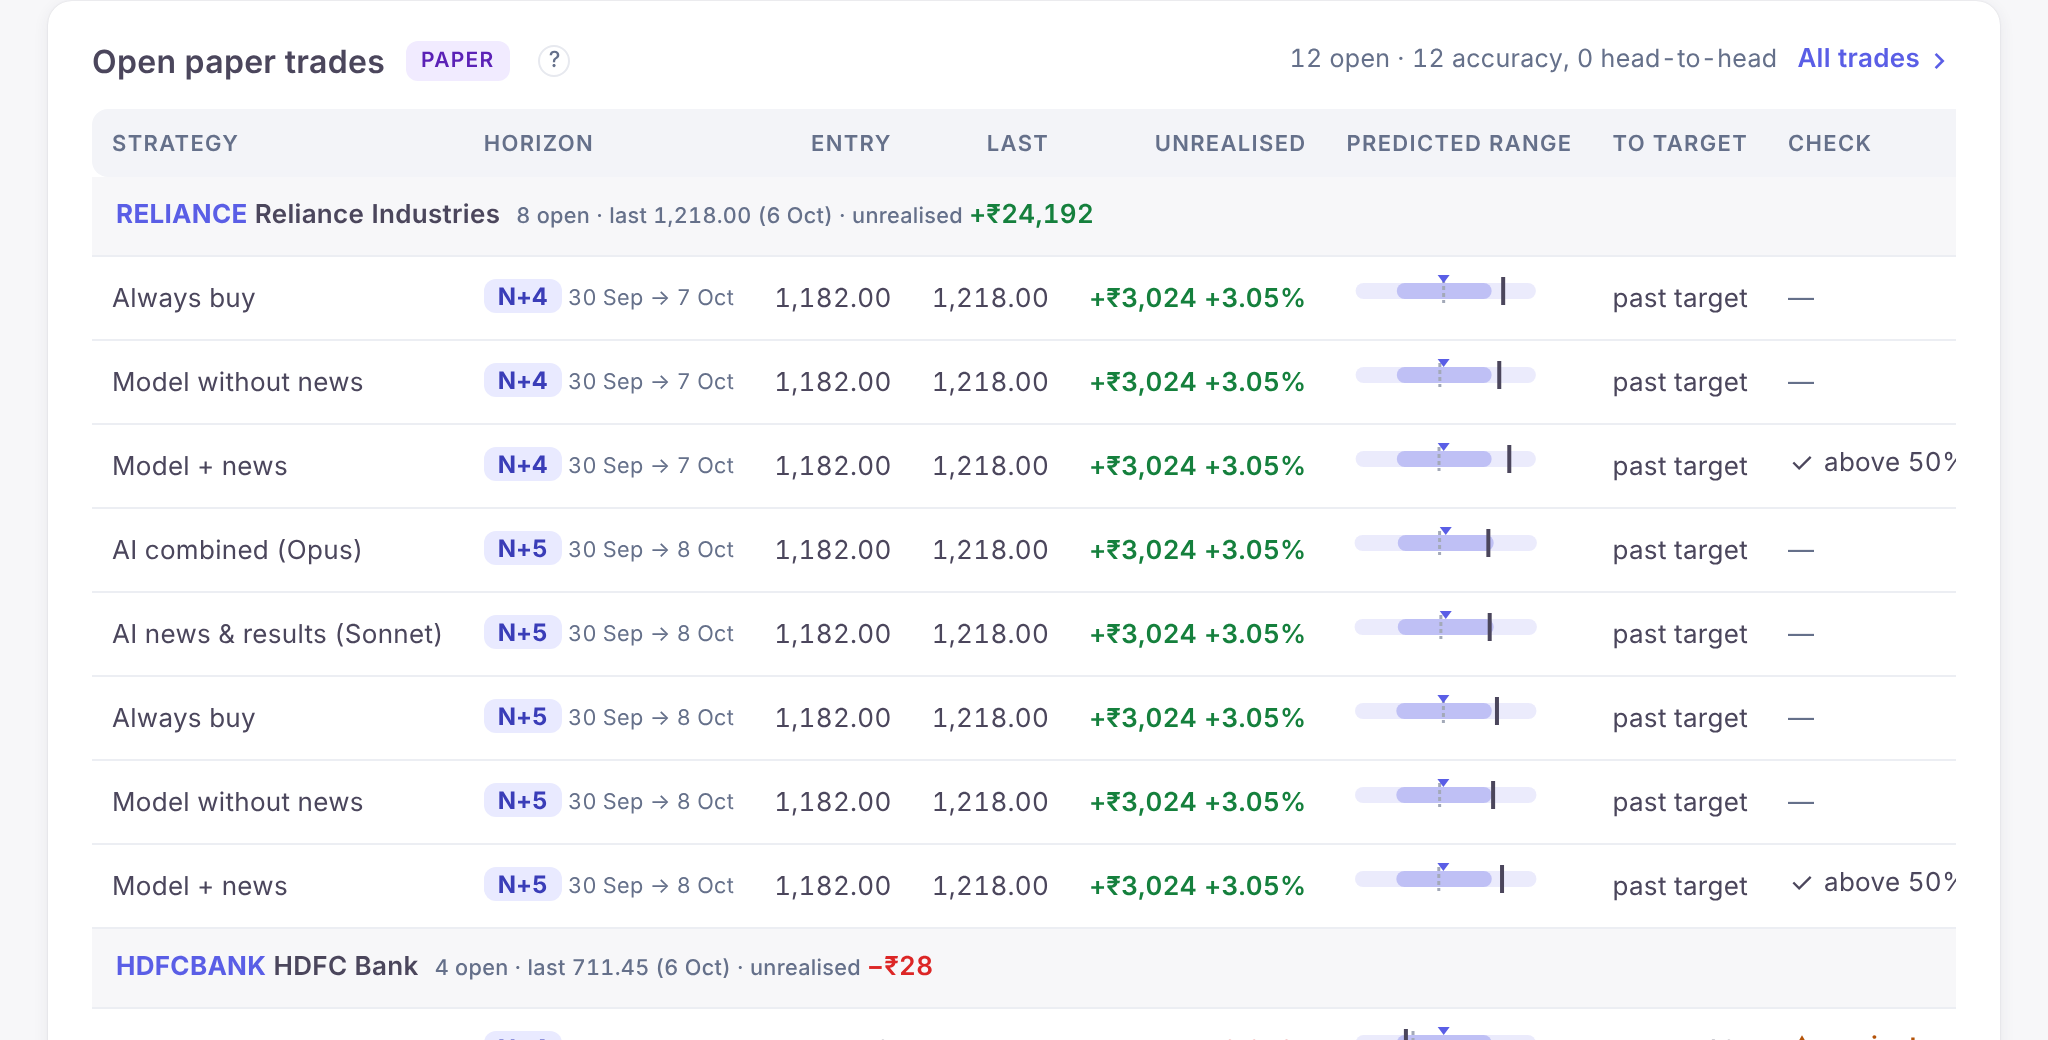
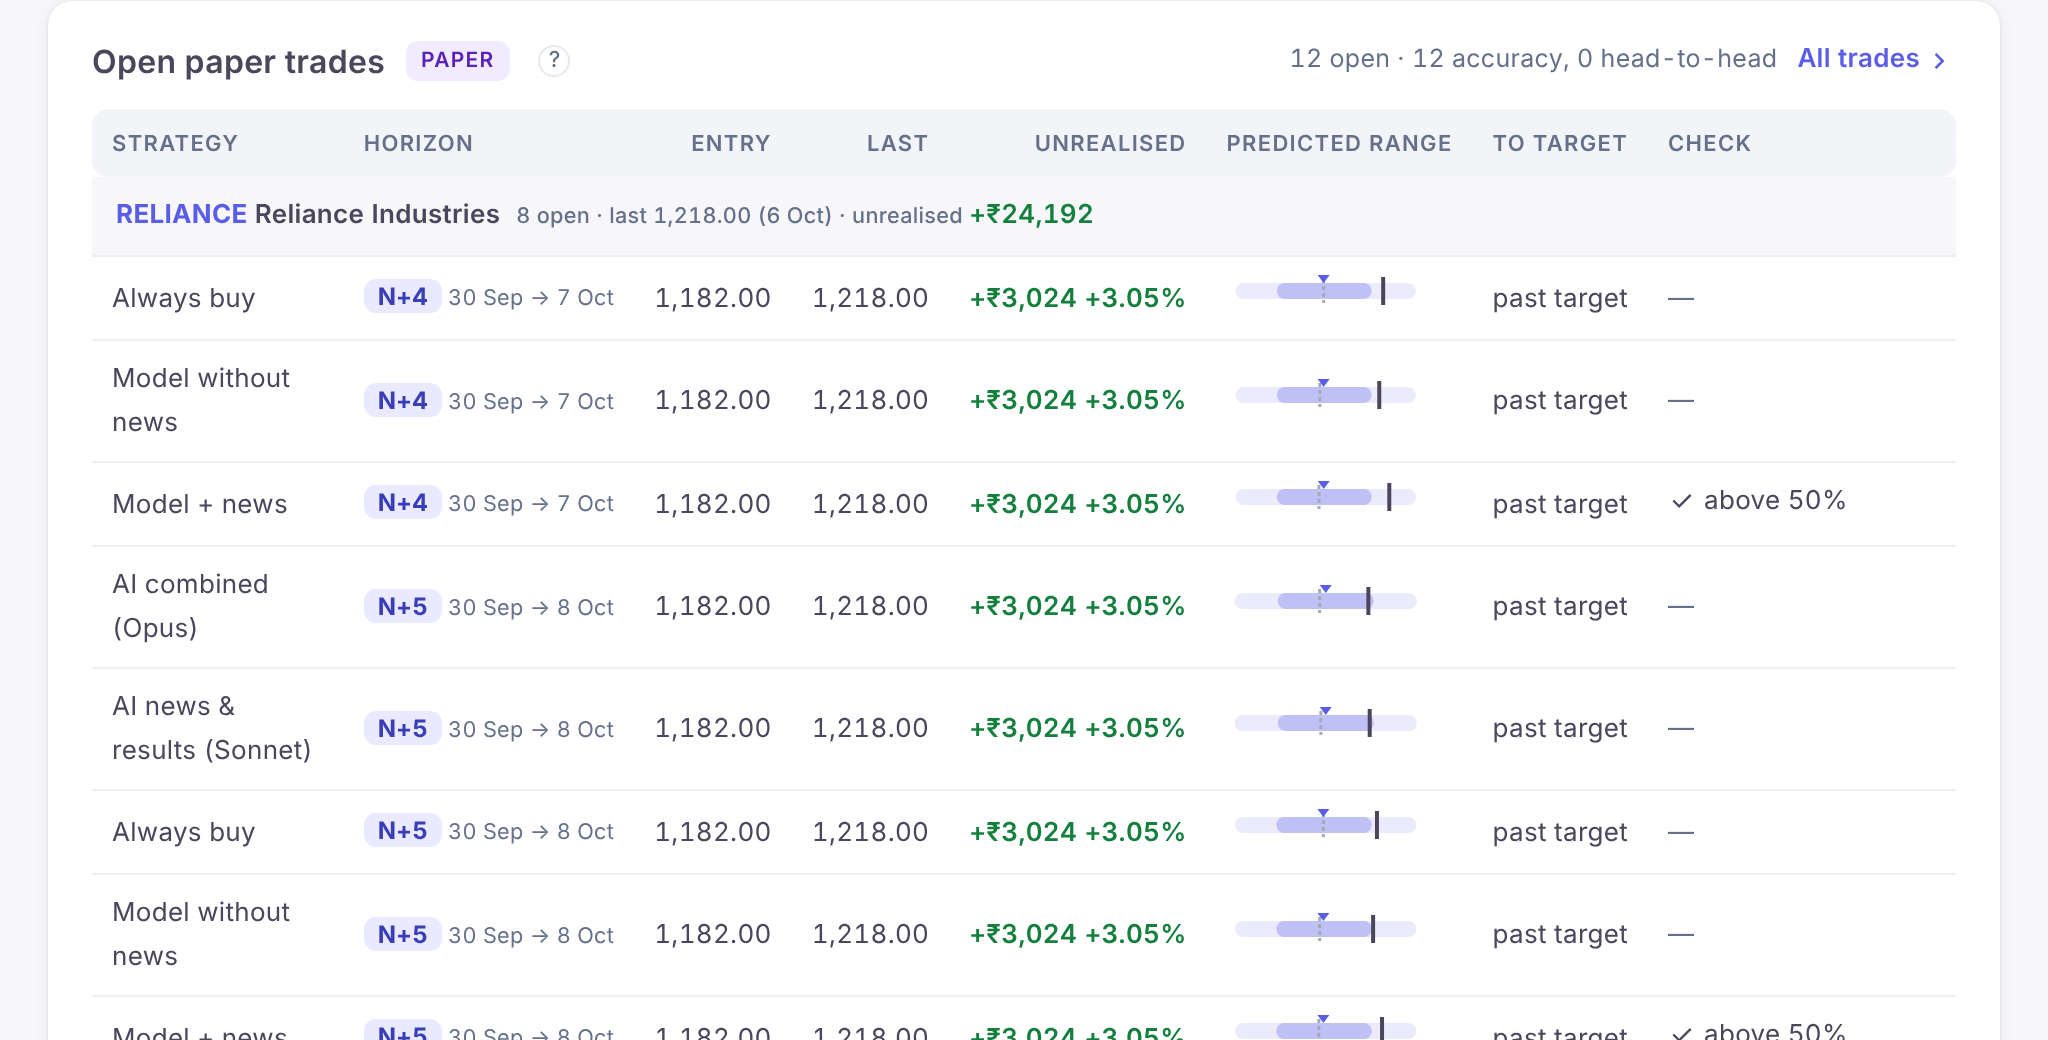
Design track: Home v3, trades table fits at 1280
Claude-Session: https://claude.ai/code/session_01RuLrYPoHyYoZ2LBEo834w9

diff --git a/design/mockups/01-home/page.html b/design/mockups/01-home/page.html
@@ -617,7 +617,7 @@ body{font-size:14px;line-height:1.5;font-variant-numeric:tabular-nums}
 .ot td.num,.ot th.num{text-align:right;white-space:nowrap}
 .ot tr.grp td{background:var(--md-sys-color-surface-container-low);font-weight:600;padding:8px 12px;font-size:13px}
 .ot tr.grp td small{font-weight:500;color:var(--md-sys-color-on-surface-variant);margin-left:8px}
-.ot td:first-child{white-space:nowrap}
+.ot td:first-child{white-space:normal;min-width:120px}
 .ot .st{display:inline-flex;align-items:center;gap:4px;white-space:nowrap} .ot .st .ms{width:14px;height:14px}
 .ot .st.flag{color:var(--mb-color-on-warn-container);font-weight:600} .ot .st.ok{color:var(--mb-color-up)}
 .ot .v2{display:none}

diff --git a/design/mockups/01-home/template.html b/design/mockups/01-home/template.html
@@ -120,7 +120,7 @@ body{font-size:14px;line-height:1.5;font-variant-numeric:tabular-nums}
 .ot td.num,.ot th.num{text-align:right;white-space:nowrap}
 .ot tr.grp td{background:var(--md-sys-color-surface-container-low);font-weight:600;padding:8px 12px;font-size:13px}
 .ot tr.grp td small{font-weight:500;color:var(--md-sys-color-on-surface-variant);margin-left:8px}
-.ot td:first-child{white-space:nowrap}
+.ot td:first-child{white-space:normal;min-width:120px}
 .ot .st{display:inline-flex;align-items:center;gap:4px;white-space:nowrap} .ot .st .ms{width:14px;height:14px}
 .ot .st.flag{color:var(--mb-color-on-warn-container);font-weight:600} .ot .st.ok{color:var(--mb-color-up)}
 .ot .v2{display:none}
